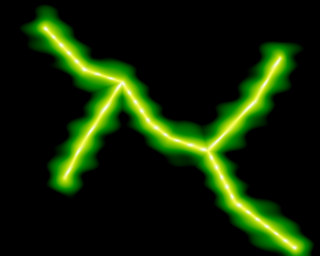
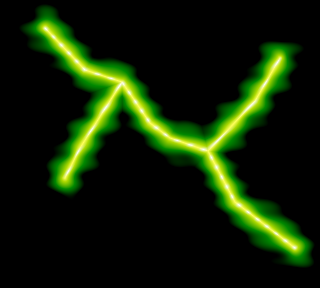
Match every navigation cell and validate the saved round-trip march; bound fault pigment to the canon

Changed region(s): [[0.0625, 0.0625, 1.0, 1.0]]

diff --git a/Unity/Assets/Eldoria/Tests/PlayMode/RegionOneCanonIntegratedAcceptanceTests.cs b/Unity/Assets/Eldoria/Tests/PlayMode/RegionOneCanonIntegratedAcceptanceTests.cs
@@ -1342,6 +1342,14 @@ namespace Eldoria.Tests
                 Assert.IsTrue(routes.TryRoute(state,id,out var points),id);
                 lines.Add(id+" "+string.Join(" ",points.Select(p=>new Vector3(p.X,p.Y,p.Z).ToString("F4"))));
             }
+            var cellField=routes.GetType().GetField("cells",BindingFlags.Instance|BindingFlags.NonPublic);
+            var cells=(System.Collections.Generic.Dictionary<Vector2Int,Vector3>)cellField.GetValue(routes);
+            using(var writer=new System.IO.BinaryWriter(File.Create(Path.Combine(output,"grid.bin")))){
+                foreach(var entry in cells.OrderBy(e=>e.Key.y).ThenBy(e=>e.Key.x)){
+                    writer.Write(entry.Key.x);writer.Write(entry.Key.y);
+                    writer.Write(entry.Value.x);writer.Write(entry.Value.y);writer.Write(entry.Value.z);
+                }
+            }
             File.WriteAllLines(Path.Combine(output,"routes.txt"),lines);
             if(Environment.GetEnvironmentVariable("ELDORIA_BAKE_TERRAIN_QUERIES")=="1"){
                 var tape=(byte[])placement.GetType().GetProperty("CapturedTerrainQueries").GetValue(null);
@@ -1358,6 +1366,26 @@ namespace Eldoria.Tests
                 yield return null;yield return null;
                 SaveRetainedSectorFrame(camera,Path.Combine(output,view.Item1+".png"),390,844);
             }
+            Assert.IsTrue((bool)Call(host,"Select","forest-valoria"));
+            var gather=Member(Member(Call(host,"Read","forest-valoria",false),"Building"),"Action");
+            Assert.AreEqual("Gather",Member(gather,"Kind"));
+            Assert.IsTrue((bool)Member(gather,"Enabled"));
+            Call(host,"Submit",gather);
+            var dispatched=gateway.Snapshot();
+            Assert.AreEqual("outbound",dispatched.March.Phase);
+            Assert.Greater(dispatched.March.Route.Count,1);
+            var savedRoute=dispatched.March.Route.Select(p=>new Vector3(p.X,p.Y,p.Z)).ToArray();
+            Call(city,"ReloadForProbe");
+            gateway=(Eldoria.Application.LocalGateway)Member(city,"Gateway");
+            Assert.AreEqual(savedRoute,gateway.Snapshot().March.Route.Select(p=>new Vector3(p.X,p.Y,p.Z)).ToArray());
+            Call(Member(city,"Clock"),"Step",2*Eldoria.Domain.SliceRules.TravelSeconds+Eldoria.Domain.SliceRules.GatherSeconds+1);
+            gateway.Advance();
+            var returned=gateway.Snapshot();
+            Assert.AreEqual("idle",returned.March.Phase);
+            Assert.Greater(returned.Resources.Wood,dispatched.Resources.Wood);
+            Call(city,"ReloadForProbe");
+            gateway=(Eldoria.Application.LocalGateway)Member(city,"Gateway");
+            Assert.AreEqual(returned.Resources.Wood,gateway.Snapshot().Resources.Wood);
             Assert.IsTrue((bool)Call(host,"TrySetWorld",false));
         }
 

diff --git a/tools/valoria-modular25d/bake-world-fault.py b/tools/valoria-modular25d/bake-world-fault.py
@@ -8,7 +8,7 @@ root = Path(__file__).resolve().parents[2]
 art = root / 'Unity/Assets/Eldoria/World4XCanon/Resources/World4X'
 layout = json.loads((art / 'Blender/production-region.json').read_text())
 # The image top corresponds to high world Z; Unity samples UV (0,0) at bottom.
-z, x = np.mgrid[0:256, 0:320]
+z, x = np.mgrid[0:288, 0:320]
 x = -430 + (x + .5)
 z = 288 - (z + .5)
 depth = np.zeros(x.shape)
@@ -24,4 +24,6 @@ for f in layout['faults']:
     vein = np.maximum(vein, v*(.37+.63*(.5+.5*np.sin(x*.31-z*.48))**2))
     shoulder = np.maximum(shoulder, np.clip(1-d/(width*2.15),0,1))
 rgb = np.stack((depth, shoulder, vein),axis=-1)
+if any(np.any(border) for border in (rgb[0],rgb[-1],rgb[:,0],rgb[:,-1])):
+    raise ValueError("Fault pigment reaches the border of its clamped texture")
 Image.fromarray(np.uint8(rgb*255+.5)).save(art/'CoronaFaultPigment.png',optimize=True)
